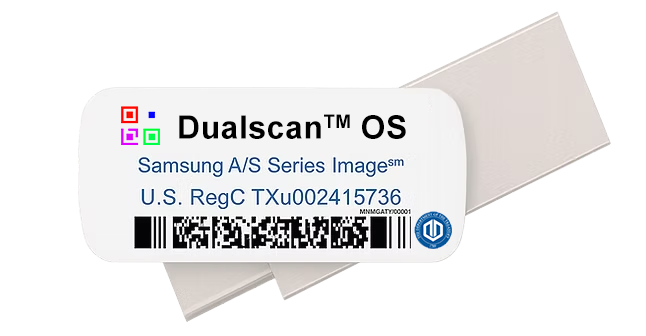
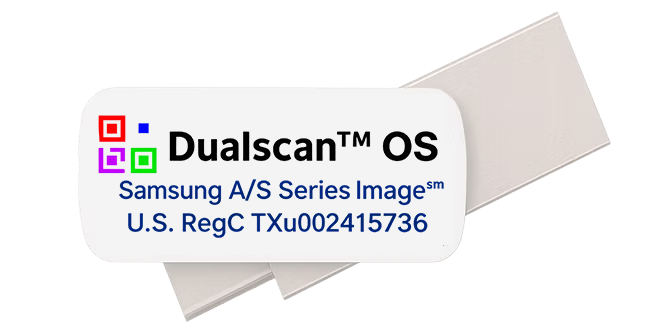
Replace homepage USB-C artwork with production reference

Changed region(s): [[0.1548, 0.2976, 0.7121, 0.744]]

diff --git a/docs/index.html b/docs/index.html
@@ -9,7 +9,7 @@
   <meta property="og:description" content="A USB-C ecosystem for a personal Galaxy workspace. Community and commercial distribution, worldwide.">
   <link rel="canonical" href="https://dualscan.cloud/">
   <meta property="og:url" content="https://dualscan.cloud/">
-  <meta property="og:image" content="https://dualscan.cloud/assets/dualscan-usb-c.png">
+  <meta property="og:image" content="https://dualscan.cloud/assets/dualscan-usb-c.png?v=e9586e766d90">
   <link rel="icon" href="assets/mark.svg" type="image/svg+xml"><link rel="stylesheet" href="style.css?v=amazon-wordmark">
 </head>
 <body>
@@ -27,7 +27,7 @@
     <div class="actions"><a class="button primary" href="#restore">Get Dualscan OS <span aria-hidden="true">↓</span></a><a class="text-link" href="#tour">Take a look inside <span aria-hidden="true">↗</span></a></div>
     <p class="hero-note">Samsung Smart Switch distribution for compatible Galaxy devices.<br>Android 14+ for Diamond’s supported USB bit-perfect path.</p>
   </div>
-  <figure class="usb-visual"><div class="edition-label"><span>THE USB-C EDITION</span><span>01 / 2026</span></div><img src="assets/dualscan-usb-c.png" alt="Dualscan OS branded USB-C drive, Samsung A/S Series image edition" width="646" height="336"><figcaption><div class="usb-caption-heading"><span>Plug in. Restore. Make it yours.</span><span class="usb-amazon-label"><span>Coming Soon To</span><img src="assets/amazon-wordmark.png" alt="Amazon" width="645" height="216"></span></div><div class="usb-share-links"><a class="text-link" href="share/">Get Dualscan™ Share Suite <span aria-hidden="true">↗</span></a><a class="chrome-store-badge" href="https://chromewebstore.google.com/detail/dualscan-share/nmajabemabimmcdpocmblcdplheaochg" target="_blank" rel="noopener noreferrer"><img src="assets/chrome-web-store-badge.png" alt="Dualscan Share — available in the Chrome Web Store" width="340" height="96"></a><a class="share-pro-link" href="share/pro/">Get Pro Version <span aria-hidden="true">↗</span></a></div></figcaption></figure>
+  <figure class="usb-visual"><div class="edition-label"><span>THE USB-C EDITION</span><span>01 / 2026</span></div><img src="assets/dualscan-usb-c.png?v=e9586e766d90" alt="Dualscan OS branded USB-C drive, Samsung A/S Series image edition" width="646" height="336"><figcaption><div class="usb-caption-heading"><span>Plug in. Restore. Make it yours.</span><span class="usb-amazon-label"><span>Coming Soon To</span><img src="assets/amazon-wordmark.png" alt="Amazon" width="645" height="216"></span></div><div class="usb-share-links"><a class="text-link" href="share/">Get Dualscan™ Share Suite <span aria-hidden="true">↗</span></a><a class="chrome-store-badge" href="https://chromewebstore.google.com/detail/dualscan-share/nmajabemabimmcdpocmblcdplheaochg" target="_blank" rel="noopener noreferrer"><img src="assets/chrome-web-store-badge.png" alt="Dualscan Share — available in the Chrome Web Store" width="340" height="96"></a><a class="share-pro-link" href="share/pro/">Get Pro Version <span aria-hidden="true">↗</span></a></div></figcaption></figure>
 </section>
 <div class="fact-strip wrap"><div><b>Worldwide</b><span>Community & commercial rights</span></div><div><b>191+</b><span>Wallpapers to make it yours</span></div><div><b>USB-C</b><span>Carry the ecosystem with you</span></div></div>
 
